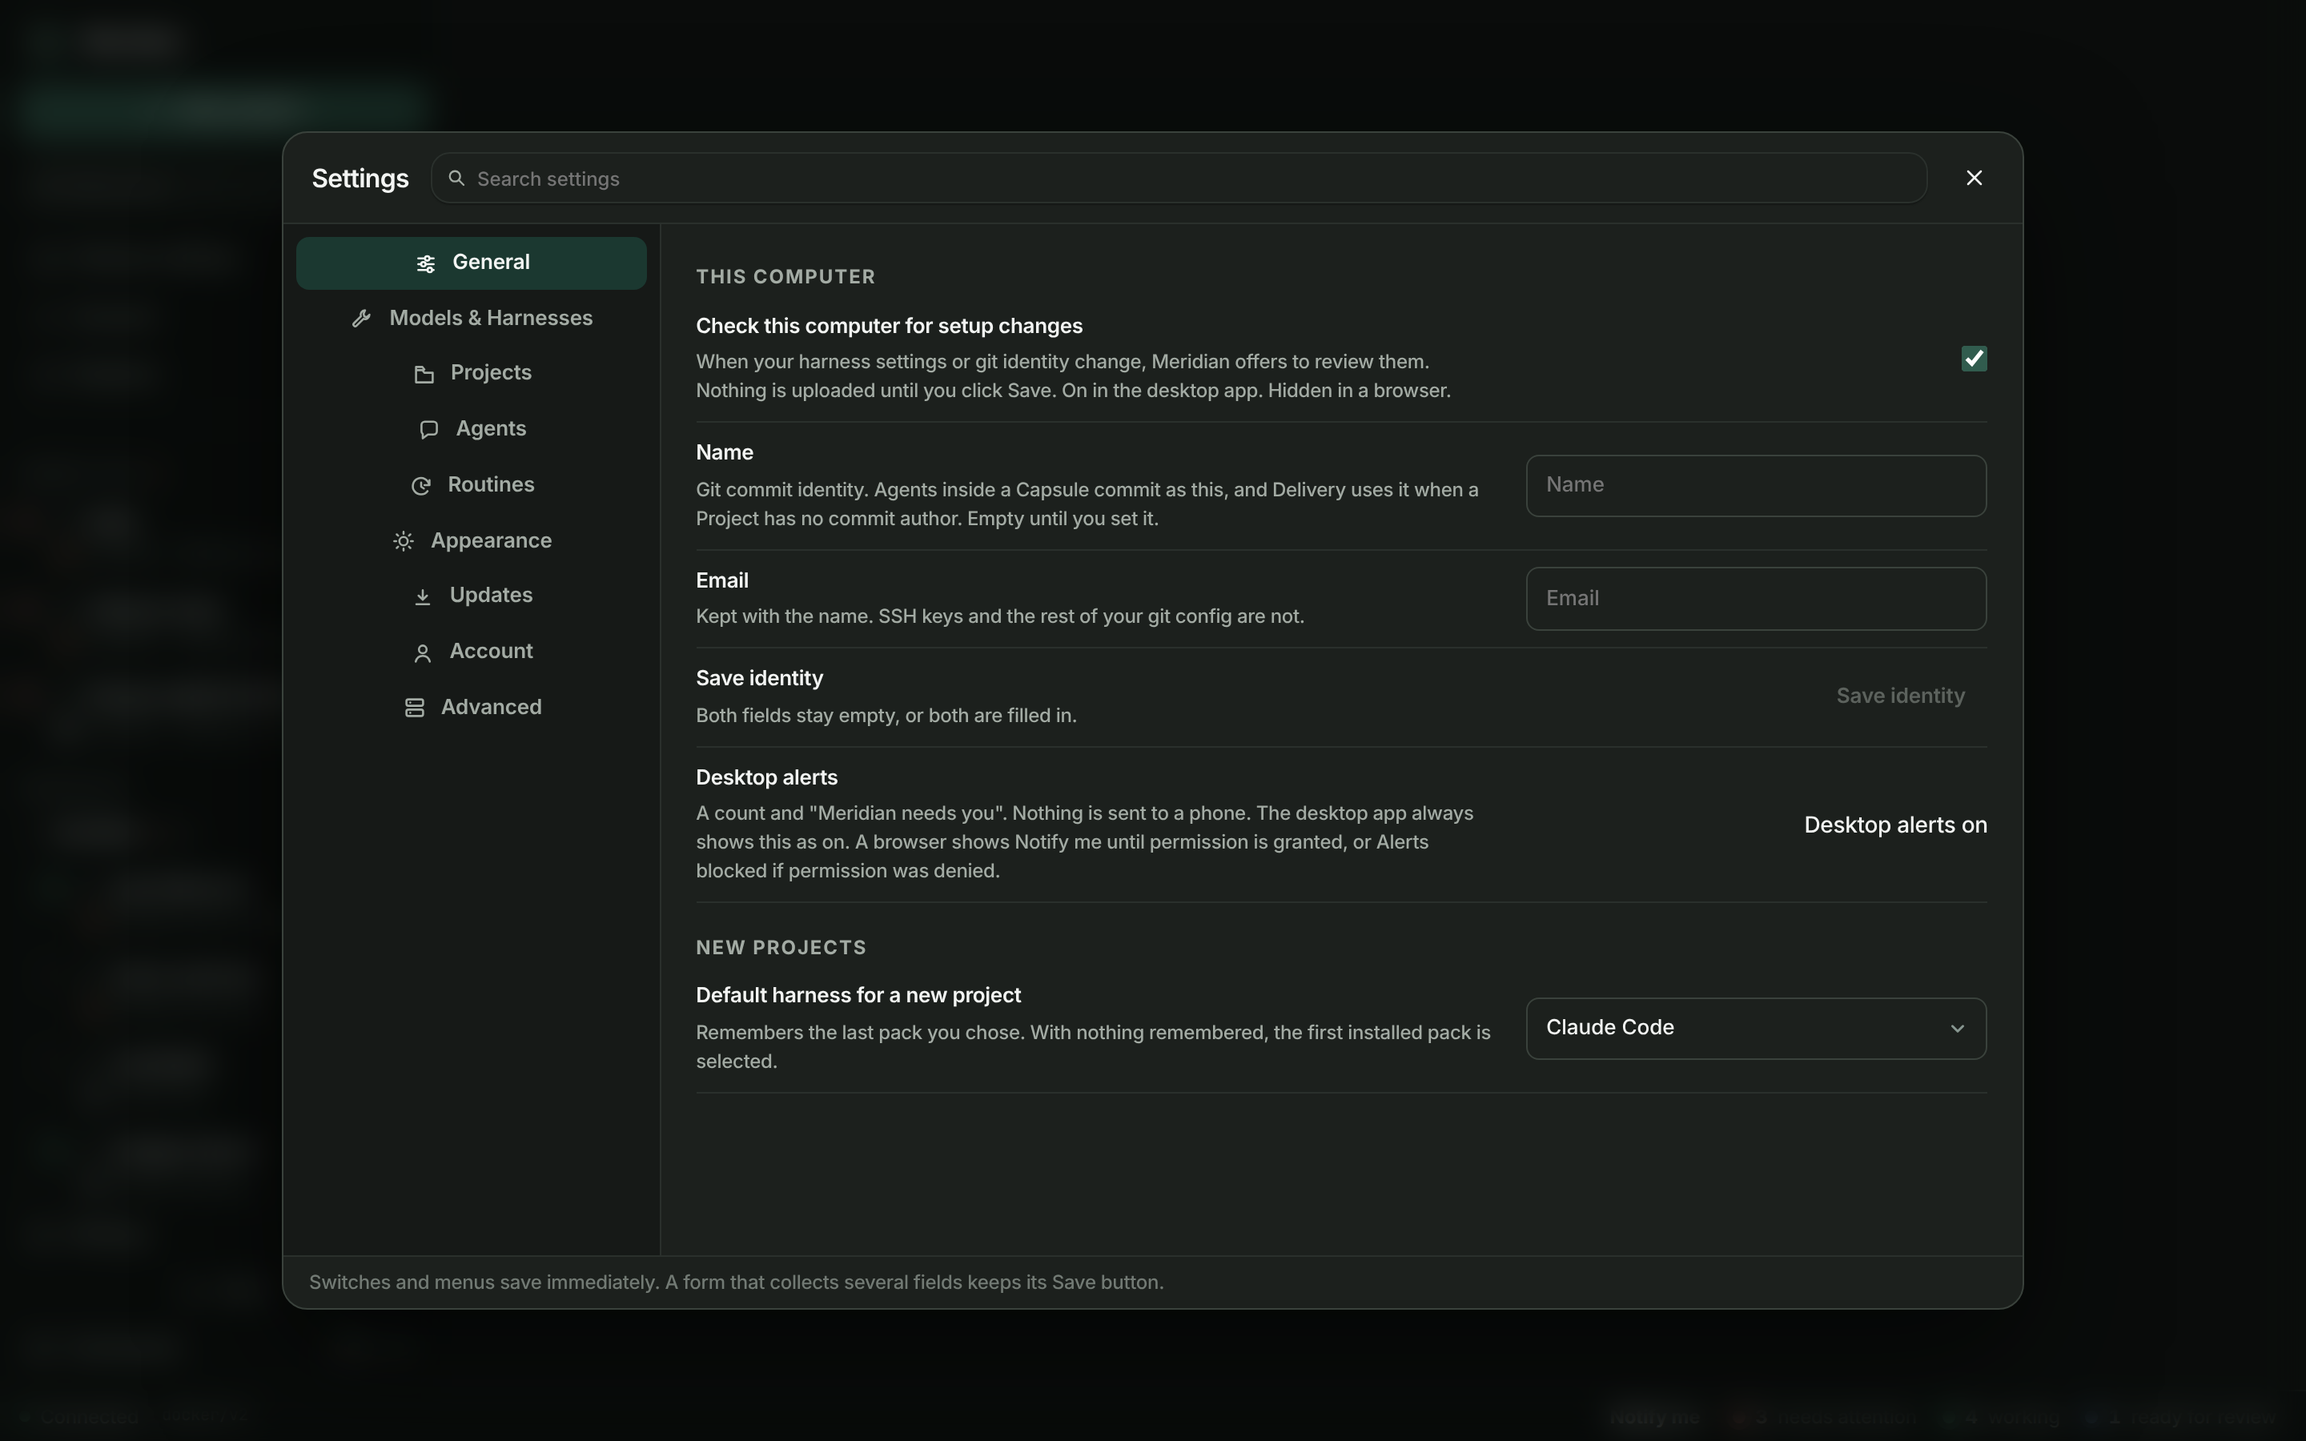
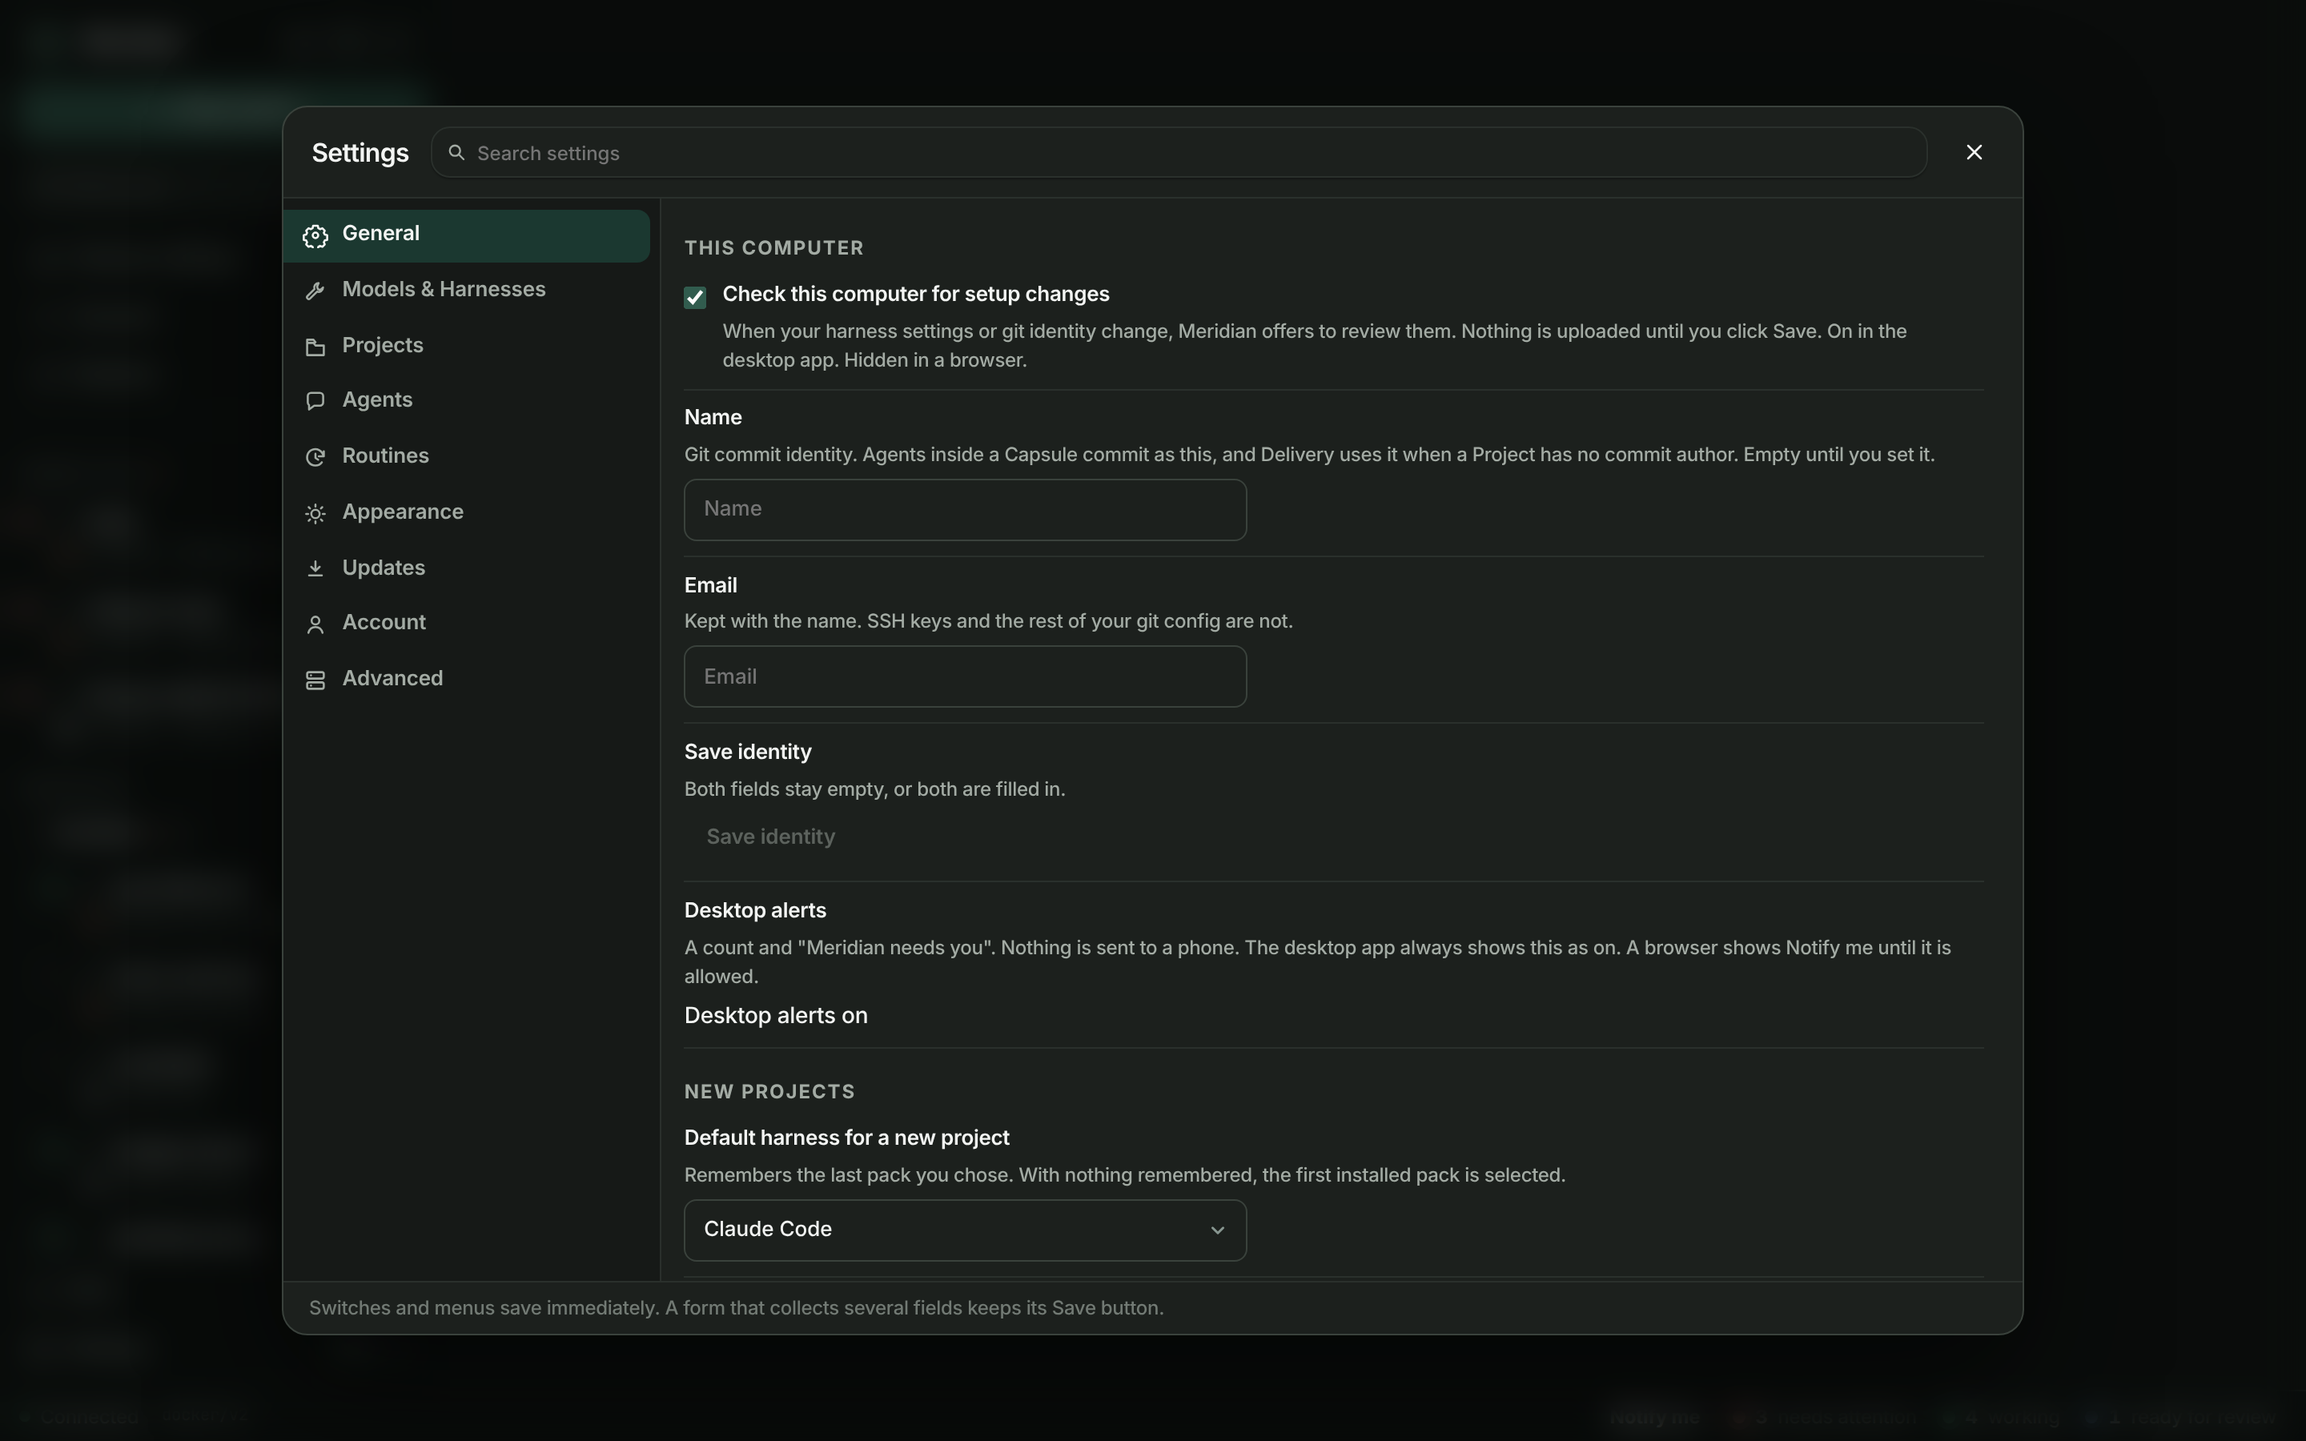
Revise the Settings mock from design feedback.
Use a cog, left-align the section list and the settings, and move Settings into the footer slot Commands uses. Commands moves to the sidebar header.

diff --git a/frontend/src/design/settingsMock.tsx b/frontend/src/design/settingsMock.tsx
@@ -9,11 +9,11 @@ import { HarnessMark } from "../components/ui/HarnessMark";
 import {
   AccountIcon,
   CloseIcon,
+  CommandIcon,
   FilesIcon,
   GatewayIcon,
   RoutineIcon,
   SearchIcon,
-  SettingsIcon,
   ThemeIcon,
   ThreadIcon,
   ToolIcon,
@@ -26,6 +26,25 @@ import { rememberTheme, themeLabel, type ThemePreference } from "../components/u
 import { isApplePlatform } from "../shell/paletteCommands";
 import "./settings-mock.css";
 
+// The shared icon file has no cog. Harness settings uses the slider mark.
+// This cog uses that file's view box, stroke, and caps, and only the mock draws it.
+function GearIcon() {
+  return (
+    <svg
+      aria-hidden="true"
+      viewBox="0 0 20 20"
+      fill="none"
+      stroke="currentColor"
+      strokeWidth="1.6"
+      strokeLinecap="round"
+      strokeLinejoin="round"
+    >
+      <circle cx="10" cy="10" r="2.15" />
+      <path d="M8.15 2.55h3.7l.4 1.9c.5.16.96.4 1.36.72l1.78-.72 1.85 1.85-.72 1.78c.32.4.56.86.72 1.36l1.9.4v3.7l-1.9.4a4.8 4.8 0 0 1-.72 1.36l.72 1.78-1.85 1.85-1.78-.72a4.8 4.8 0 0 1-1.36.72l-.4 1.9h-3.7l-.4-1.9a4.8 4.8 0 0 1-1.36-.72l-1.78.72-1.85-1.85.72-1.78a4.8 4.8 0 0 1-.72-1.36l-1.9-.4v-3.7l1.9-.4c.16-.5.4-.96.72-1.36l-.72-1.78 1.85-1.85 1.78.72c.4-.32.86-.56 1.36-.72l.4-1.9z" />
+    </svg>
+  );
+}
+
 export type SettingsSectionId =
   | "general"
   | "models"
@@ -37,8 +56,8 @@ export type SettingsSectionId =
   | "account"
   | "advanced";
 
-const sections: { id: SettingsSectionId; label: string; icon: typeof SettingsIcon }[] = [
-  { id: "general", label: "General", icon: SettingsIcon },
+const sections: { id: SettingsSectionId; label: string; icon: typeof ToolIcon }[] = [
+  { id: "general", label: "General", icon: GearIcon },
   { id: "models", label: "Models & Harnesses", icon: ToolIcon },
   { id: "projects", label: "Projects", icon: FilesIcon },
   { id: "agents", label: "Agents", icon: ThreadIcon },
@@ -61,14 +80,18 @@ function shortcutKeys() {
   return isApplePlatform() ? ["⌘", ","] : ["Ctrl", ","];
 }
 
-function Shortcut() {
+function Shortcut({ keys }: { keys?: string[] }) {
   return (
     <span className="key-combo" aria-hidden="true">
-      {shortcutKeys().map((key) => (
+      {(keys ?? shortcutKeys()).map((key) => (
         <kbd key={key}>{key}</kbd>
       ))}
     </span>
   );
+}
+
+function commandKeys() {
+  return isApplePlatform() ? ["⌘", "K"] : ["Ctrl", "K"];
 }
 
 function matches(query: string, text: string) {
@@ -216,7 +239,7 @@ function General({ query }: { query: string }) {
         id="alerts"
         query={query}
         label="Desktop alerts"
-        hint={'A count and "Meridian needs you". Nothing is sent to a phone. The desktop app always shows this as on. A browser shows Notify me until permission is granted, or Alerts blocked if permission was denied.'}
+        hint={'A count and "Meridian needs you". Nothing is sent to a phone. The desktop app always shows this as on. A browser shows Notify me until it is allowed.'}
         keywords="notifications notify"
       >
         <span id="alerts">Desktop alerts on</span>
@@ -888,29 +911,44 @@ export function SettingsDesign({
   onQuery: (query: string) => void;
 }) {
   const [footer, setFooter] = useState<Element | null>(null);
+  const [header, setHeader] = useState<Element | null>(null);
   const [mounts, setMounts] = useState(0);
+  const [commandMounts, setCommandMounts] = useState(0);
   const pending = useRef(false);
+  const commandPending = useRef(false);
 
   useEffect(() => {
     const sync = () => {
-      const node = document.querySelector(".sidebar-footer");
-      if (!node) return;
-      setFooter((current) => (current === node ? current : node));
-      const gear = node.querySelector("[data-settings-gear]");
-      if (gear) {
-        if (node.firstElementChild !== gear) node.prepend(gear);
-        pending.current = false;
-        return;
+      const footerNode = document.querySelector(".sidebar-footer");
+      if (footerNode) {
+        setFooter((current) => (current === footerNode ? current : footerNode));
+        const gear = footerNode.querySelector("[data-settings-gear]");
+        if (gear) {
+          if (footerNode.lastElementChild !== gear) footerNode.append(gear);
+          pending.current = false;
+        } else if (!pending.current) {
+          pending.current = true;
+          setMounts((value) => value + 1);
+        }
       }
-      if (pending.current) return;
-      pending.current = true;
-      setMounts((value) => value + 1);
+      const headerNode = document.querySelector(".sidebar-header");
+      if (headerNode) {
+        setHeader((current) => (current === headerNode ? current : headerNode));
+        const command = headerNode.querySelector("[data-settings-commands]");
+        if (command) {
+          if (headerNode.lastElementChild !== command) headerNode.append(command);
+          commandPending.current = false;
+        } else if (!commandPending.current) {
+          commandPending.current = true;
+          setCommandMounts((value) => value + 1);
+        }
+      }
     };
     sync();
     const observer = new MutationObserver(sync);
     observer.observe(document.body, { childList: true, subtree: true });
     return () => observer.disconnect();
-  }, [pending]);
+  }, []);
 
   useEffect(() => {
     const onKey = (event: KeyboardEvent) => {
@@ -935,8 +973,9 @@ export function SettingsDesign({
     let raf = 0;
     const tick = () => {
       const gear = document.querySelector(".sidebar-footer > [data-settings-gear]");
+      const commands = document.querySelector(".sidebar-header > [data-settings-commands]");
       const dialogOk = !open || document.querySelector("[data-settings-mock]");
-      if (gear && dialogOk) frames += 1;
+      if (gear && commands && dialogOk) frames += 1;
       else frames = 0;
       if (frames >= 3) {
         document.documentElement.dataset.shotReady = "1";
@@ -946,7 +985,7 @@ export function SettingsDesign({
     };
     raf = requestAnimationFrame(tick);
     return () => cancelAnimationFrame(raf);
-  }, [open, section, query, mounts, footer]);
+  }, [open, section, query, mounts, commandMounts, footer, header]);
 
   const visible = sections.filter((item) => query.trim() === "" || matches(query, `${item.label} ${sectionText[item.id]}`));
   const showing = visible.some((item) => item.id === section) ? section : visible[0]?.id;
@@ -961,14 +1000,29 @@ export function SettingsDesign({
       aria-keyshortcuts={isApplePlatform() ? "Meta+Comma" : "Control+Comma"}
       onClick={() => onOpenChange(true)}
     >
-      <SettingsIcon />
+      <GearIcon />
       Settings
       <Shortcut />
     </button>
   );
 
+  const commands = (
+    <button
+      key={commandMounts}
+      type="button"
+      className="settings-mock-commands"
+      data-settings-commands=""
+      aria-label="Commands"
+      aria-keyshortcuts={isApplePlatform() ? "Meta+K" : "Control+K"}
+    >
+      <CommandIcon />
+      <Shortcut keys={commandKeys()} />
+    </button>
+  );
+
   return (
     <>
+      {header ? createPortal(commands, header) : null}
       {footer ? createPortal(gear, footer) : null}
       {open && (
         <div

diff --git a/frontend/src/design/settings-mock.css b/frontend/src/design/settings-mock.css
@@ -4,7 +4,7 @@
   display: flex;
   flex-direction: column;
   width: min(68rem, calc(100vw - 2.5rem));
-  height: min(46rem, calc(100dvh - 2.5rem));
+  height: min(48rem, calc(100dvh - 2.5rem));
   border: 1px solid var(--border-strong);
   border-radius: var(--radius-lg);
   overflow: hidden;
@@ -48,9 +48,10 @@
 .settings-mock-nav {
   display: flex;
   flex-direction: column;
+  align-items: stretch;
   gap: 0.12rem;
   border-right: 1px solid var(--border);
-  padding: 0.5rem;
+  padding: 0.4rem 0.35rem 0.4rem 0;
   overflow: auto;
   background: var(--surface);
 }
@@ -58,12 +59,13 @@
 .settings-mock-nav button {
   display: flex;
   align-items: center;
+  justify-content: flex-start;
   gap: 0.55rem;
   width: 100%;
   min-height: 2.05rem;
   border: 0;
-  border-radius: var(--radius-sm);
-  padding: 0.35rem 0.55rem;
+  border-radius: 0 var(--radius-sm) var(--radius-sm) 0;
+  padding: 0.35rem 0.55rem 0.35rem 0.75rem;
   color: var(--muted);
   background: transparent;
   box-shadow: none;
@@ -90,8 +92,9 @@
 
 .settings-mock-content {
   min-width: 0;
-  padding: 0.35rem 1.35rem 1.5rem;
+  padding: 0.2rem 1.5rem 1.5rem 0.9rem;
   overflow: auto;
+  text-align: left;
 }
 
 .settings-mock-hit {
@@ -129,12 +132,19 @@
 }
 
 .settings-mock-row {
-  display: grid;
-  grid-template-columns: minmax(0, 1fr) minmax(11rem, 18rem);
-  gap: 1.25rem;
-  align-items: center;
+  display: flex;
+  flex-direction: column;
+  align-items: flex-start;
+  gap: 0.35rem;
   border-bottom: 1px solid var(--border);
-  padding: 0.62rem 0;
+  padding: 0.55rem 0;
+}
+
+.settings-mock-row:has(input[type="checkbox"]) {
+  flex-direction: row-reverse;
+  justify-content: flex-end;
+  align-items: flex-start;
+  gap: 0.65rem;
 }
 
 .settings-mock-label {
@@ -155,9 +165,15 @@
 
 .settings-mock-control {
   display: flex;
-  justify-content: flex-end;
+  justify-content: flex-start;
   align-items: center;
+  width: min(22rem, 100%);
   min-width: 0;
+}
+
+.settings-mock-row:has(input[type="checkbox"]) .settings-mock-control {
+  width: auto;
+  padding-top: 0.15rem;
 }
 
 .settings-mock-control > input:not([type="checkbox"]),
@@ -248,6 +264,40 @@
   font-size: var(--text-xs);
 }
 
-.settings-mock-gear {
+.settings-mock-gear,
+.sidebar-footer > .theme-trigger {
   width: 100%;
+  justify-content: flex-start;
+}
+
+/* Commands leaves the footer. The real footer button is hidden for this mock. */
+.sidebar-footer > button.palette-trigger:not(.settings-mock-gear):not(.theme-trigger) {
+  display: none;
+}
+
+.settings-mock-commands {
+  display: inline-flex;
+  align-items: center;
+  justify-content: flex-start;
+  gap: 0.35rem;
+  margin-left: auto;
+  min-height: 0;
+  border: 0;
+  border-radius: var(--radius-sm);
+  padding: 0.25rem 0.4rem;
+  color: var(--muted);
+  background: transparent;
+  box-shadow: none;
+  font-size: 0.72rem;
+  font-weight: 620;
+}
+
+.settings-mock-commands:hover {
+  color: var(--text);
+  background: var(--surface-hover);
+}
+
+.settings-mock-commands svg {
+  width: 1rem;
+  height: 1rem;
 }

diff --git a/docs/design/settings-window.md b/docs/design/settings-window.md
@@ -22,21 +22,33 @@ Then open `/ui/?design=settings`. Useful query parameters:
 
 ## Gear
 
-The gear sits in the sidebar footer, the first row, above the color-theme cycle and Commands. That footer is on every screen. The page has no title bar of its own, so the footer is the spot that stays visible. The mark is the settings icon already used for Harness settings. The shortcut sits on the right, the same way Commands shows its shortcut.
+Settings takes the bottom slot in the sidebar footer, the row Commands uses today, under the color-theme cycle. That footer is on every screen. The page has no title bar of its own, so the footer is the spot that stays visible. The shortcut sits on the right of the row.
 
-![The workspace with Settings in the sidebar footer, light](assets/settings-shell-light.png)
+The shared icon file has no cog. The mark on Harness settings is three sliders. Settings uses a cog drawn with that file's 20 by 20 view box, stroke, and round caps, so the feature can add the same path next to the slider mark.
 
-![The footer row: Settings, the theme cycle, and Commands, light](assets/settings-gear-light.png)
+![The workspace with the cog in the bottom footer slot, light](assets/settings-shell-light.png)
 
-![The workspace with Settings in the sidebar footer, dark](assets/settings-shell-dark.png)
+![The footer: theme cycle, then Settings with a cog, light](assets/settings-gear-light.png)
 
-![The footer row in dark](assets/settings-gear-dark.png)
+![The workspace with the cog in the bottom footer slot, dark](assets/settings-shell-dark.png)
 
-Harness settings, Account, and Routines stay in the sidebar in this mock, so the proposed gear can be compared with the links it would replace. The proposal is that those links become jumps into the matching section, or go away.
+![The footer in dark](assets/settings-gear-dark.png)
+
+Harness settings, Account, and Routines stay in the sidebar in this mock, so the cog can be compared with the links it would replace. The proposal is that those links become jumps into the matching section, or go away.
+
+## Commands
+
+Commands does not stay in the sidebar. The palette already opens with `Cmd+K` or `Ctrl+K` from anywhere, and the footer slot is now Settings. The filter field under New project is a different search: it only narrows the activity list, and its `/` hint should keep meaning that.
+
+The visible control moves to the sidebar header, to the right of the name, as the command mark plus the shortcut. It stays on screen without spending the bottom row, and it does not turn the activity filter into a second command box.
+
+![Commands in the sidebar header, light](assets/settings-commands-light.png)
+
+![Commands in the sidebar header, dark](assets/settings-commands-dark.png)
 
 ## Window
 
-Settings opens as a dialog over the workspace: a section list on the left, the settings on the right, and a search box in the header. Switches and menus save immediately. A form that collects several fields keeps its Save button. That matches how the app works today (the theme, a default connection, and notes delivery save on change; checks, the environment, git identity, and a routine keep an explicit save).
+Settings opens as a dialog over the workspace: a section list pinned to the left edge, the settings on the right, and a search box in the header. Headings, labels, and controls in the content pane all start at the left. A control sits under its label. It is not a column of controls on the right. Switches and menus save immediately. A form that collects several fields keeps its Save button. That matches how the app works today (the theme, a default connection, and notes delivery save on change; checks, the environment, git identity, and a routine keep an explicit save).
 
 Whether this should be a dialog or a separate window is an open question, below.
 
